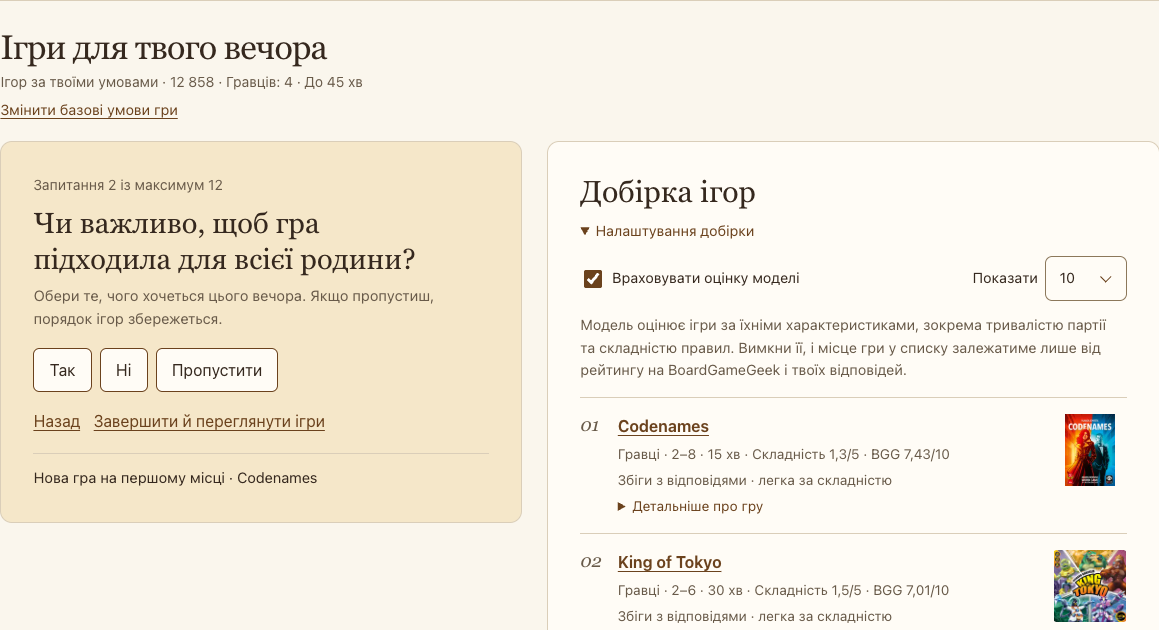
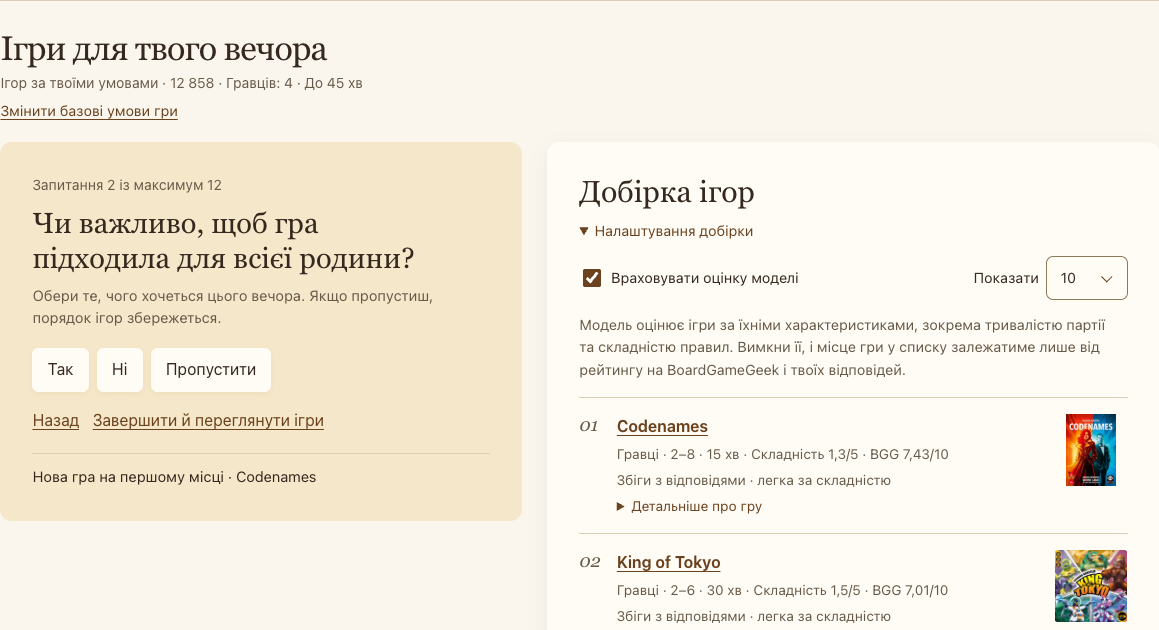
Keep the monogram green and soften portfolio surfaces and hover states

diff --git a/rental.css b/rental.css
@@ -4,7 +4,7 @@
 .hero-image img { display:block; width:100%; height:clamp(210px,20vw,284px); object-fit:cover; object-position:50% 70%; border-radius:4px 36px 4px 4px; }
 .hero-image figcaption { margin-top:.35rem; color:var(--muted); font-size:.78rem; }
 .hero-image figcaption a { color:inherit; }
-.controls { background:#e6ece1; border:1px solid #c8d6c4; border-radius:12px; padding:clamp(1rem,2.3vw,1.8rem); }
+.controls { background:#e6ece1; border-radius:12px; padding:clamp(1rem,2.3vw,1.8rem); }
 #question { display:block; margin:0 0 .65rem; font-size:1.08rem; font-weight:650; }
 .query-row { display:flex; align-items:stretch; gap:.65rem; }
 .query-row textarea { resize:vertical; min-height:48px; min-width:0; flex:1; background:var(--surface); border:1px solid #a9bba8; border-radius:7px; padding:.65rem .85rem; line-height:1.5; font-size:1rem; }
@@ -12,9 +12,14 @@
 .samples, .chips { display:flex; flex-wrap:wrap; align-items:center; gap:.5rem; }
 .samples { margin-top:.8rem; }
 .samples small { margin-inline-end:.25rem; }
-.chip { padding:.28rem .7rem; min-height:33px; border-radius:18px; border:1px solid #adbdac; background:#f5f7f1; font-size:.84rem; }
-.chip:hover, .chip[aria-pressed=true] { background:var(--surface); color:var(--pine); border-color:var(--pine); }
-.chip[aria-pressed=true] { box-shadow:inset 0 0 0 .5px var(--pine); }
+.chip { padding:.28rem .7rem; min-height:33px; border-radius:18px; border:0; background:#f5f7f1; font-size:.84rem; }
+.chip[aria-pressed=true] { background:var(--pine); color:white; }
+@media (forced-colors: active) {
+  .chip[aria-pressed=true] { text-decoration:underline; }
+}
+@media (hover: hover) and (pointer: fine) {
+  .chip:not([aria-pressed=true]):hover { background:var(--surface); }
+}
 .linehead { display:flex; align-items:baseline; justify-content:space-between; gap:.5rem 1rem; flex-wrap:wrap; margin:2rem 0 .4rem; }
 .linehead span, #legend, #unmatched { font-size:.875rem; color:var(--muted); }
 #understood { margin:.15rem 0; font-size:.98rem; overflow-wrap:anywhere; }
@@ -22,10 +27,14 @@
 #unmatched:empty { display:none; }
 #legend { margin:.45rem 0 1rem; }
 .grid { display:grid; grid-template-columns:repeat(3,minmax(0,1fr)); gap:clamp(.75rem,1.7vw,1.5rem); }
-.card { min-width:0; display:flex; flex-direction:column; border:1px solid var(--line); border-radius:9px; overflow:hidden; background:var(--surface); box-shadow:0 5px 13px #293c2710; }
-.shot { display:block; position:relative; border:0; background:#dadbce; padding:0; }
+.card { min-width:0; display:flex; flex-direction:column; border-radius:9px; overflow:hidden; background:var(--surface); box-shadow:var(--surface-shadow); }
+.shot { display:block; position:relative; overflow:hidden; border:0; background:#dadbce; padding:0; }
 .shot:focus-visible { outline-offset:-4px; }
 .shot img { width:100%; aspect-ratio:1.84; object-fit:cover; display:block; }
+@media (hover: hover) and (pointer: fine) and (prefers-reduced-motion: no-preference) {
+  .shot img { transition:transform 420ms var(--hover-ease); }
+  .shot:hover img { transform:scale(1.015); }
+}
 .photo-label { position:absolute; left:12px; bottom:10px; background:#faf9f0f5; color:#253c2c; padding:.18rem .6rem; border-radius:4px; font-size:.78rem; font-weight:600; }
 .cardbody { padding:clamp(.85rem,1.6vw,1.35rem); display:flex; flex-direction:column; flex:1; }
 .cardhead { display:flex; justify-content:space-between; align-items:center; gap:.4rem; }
@@ -40,10 +49,10 @@
 .ico.bad { color:#9a4b33; } .ico.unknown { color:var(--muted); }
 .inspect { align-self:flex-start; background:transparent; border:0; color:var(--pine); padding:.25rem 0; margin-top:auto; font-weight:620; text-decoration:underline; text-underline-offset:.22em; }
 .rental-note { max-width:80ch; margin-top:1.4rem; color:var(--muted); font-size:.875rem; }
-dialog { width:min(820px,calc(100% - 24px)); max-height:90vh; max-height:90dvh; padding:0; border:1px solid var(--line); border-radius:14px; color:var(--ink); background:var(--surface); overscroll-behavior:contain; }
+dialog { width:min(820px,calc(100% - 24px)); max-height:90vh; max-height:90dvh; padding:0; border:0; border-radius:14px; color:var(--ink); background:var(--surface); overscroll-behavior:contain; }
 dialog::backdrop { background:#14251dd1; }
 .dhead { display:flex; align-items:center; justify-content:space-between; padding:1rem 1.25rem; gap:.5rem; }
-.close { border-radius:24px; background:var(--surface); border:1px solid var(--line); padding:.45rem .9rem; }
+.close { border-radius:24px; background:var(--pine-soft); border:0; padding:.45rem .9rem; }
 .gallery { padding:0 1.25rem 1.25rem; }
 .stage { position:relative; background:#e7e7de; border-radius:7px; overflow:hidden; }
 .stage img { display:block; width:100%; height:clamp(190px,47vh,510px); object-fit:contain; }
@@ -77,7 +86,7 @@ dialog::backdrop { background:#14251dd1; }
 #spelling button { max-width:100%; white-space:normal; overflow-wrap:anywhere; }
 .refine { margin:.65rem 0; font-size:.92rem; }
 .refine summary { display:list-item; width:fit-content; cursor:pointer; color:var(--pine); text-decoration:underline; text-underline-offset:.2em; }
-.refine form { margin:.65rem 0 1rem; padding:1rem; border:1px solid var(--line); border-radius:8px; background:var(--surface); }
+.refine form { margin:.65rem 0 1rem; padding:1rem; border-radius:8px; background:var(--surface); box-shadow:var(--surface-shadow); }
 .refine-fields { display:grid; grid-template-columns:repeat(auto-fit,minmax(min(100%,11rem),1fr)); gap:.7rem; }
 .refine-fields label { display:grid; gap:.25rem; }
 .refine-fields input,.refine-fields select { min-width:0; max-width:100%; padding:.45rem; font:inherit; border:1px solid #a9bba8; border-radius:5px; background:var(--surface); color:var(--ink); }

diff --git a/demo.css b/demo.css
@@ -8,6 +8,9 @@
   --pine: #214334;
   --pine-soft: #e4ece0;
   --focus: #ab501e;
+  --glow-rgb: 49 86 65;
+  --surface-shadow: 0 2px 5px rgb(39 40 30 / 4%), 0 8px 24px rgb(39 40 30 / 5%);
+  --hover-ease: cubic-bezier(.22, .68, .26, 1);
   --serif: Georgia, "Times New Roman", serif;
   --sans: Inter, -apple-system, BlinkMacSystemFont, "Segoe UI", Arial, sans-serif;
   --mono: ui-monospace, "SFMono-Regular", Consolas, monospace;
@@ -35,23 +38,42 @@ button { -webkit-appearance: none; }
 .masthead .wrap { min-height: 64px; flex-wrap:wrap; gap: clamp(1rem, 3vw, 2.5rem); }
 .masthead { color: #20372d; }
 .masthead .signature, .masthead nav a { color: inherit; }
-.masthead .monogram { background: #214334; }
 .masthead nav { align-self:stretch; gap:clamp(.85rem,2.5vw,2rem); margin-inline-start:auto; }
 .masthead nav a { display:grid; align-items:center; align-self:stretch; position:relative; }
 .masthead nav a[aria-current="page"]::after { content:""; position:absolute; inset:auto 0 0; height:3px; background:currentColor; }
 .masthead nav a[aria-current="page"] { font-weight:700; }
 .masthead .language { min-width:7.5em; }
 .signature { gap: .6rem; font-weight: 650; color: var(--ink); text-decoration: none; }
-.monogram { display: inline-grid; place-items: center; flex: none; width: 33px; height: 33px; border-radius: 50%; background: var(--pine); color: #fffced; font: italic 1rem var(--serif); }
+.monogram { display: inline-grid; place-items: center; flex: none; width: 33px; height: 33px; border-radius: 50%; background: #214334; color: #fffced; font: italic 1rem var(--serif); }
 .masthead nav a, .language { font-size: .875rem; font-weight: 550; }
 .masthead nav a { text-decoration: none; }
 .masthead nav a:hover, .signature:hover span:last-child { text-decoration: underline; }
-.language { display: inline-flex; align-items: center; justify-content:center; min-height: 40px; padding: 0 .85rem; background: transparent; border: 1px solid var(--line); border-radius: 25px; }
+.language { display: inline-flex; align-items: center; justify-content:center; min-height: 40px; padding: 0 .85rem; background: color-mix(in srgb, currentColor 7%, transparent); border: 0; border-radius: 25px; }
 .skip:not(:focus), .sronly { position:absolute; width:1px; height:1px; padding:0; margin:-1px; overflow:hidden; clip-path:inset(50%); white-space:nowrap; }
 .skip:focus { position:absolute; top:8px; left:8px; z-index:10; background:var(--surface); padding:.5rem; }
-.primary { border: 1px solid var(--pine); border-radius: 7px; background: var(--pine); color: white; font-weight: 650; padding: .7rem 1.1rem; min-height: 46px; }
-.primary::after { content: "→"; margin-inline-start:.65em; }
-.primary:hover { background: #142f23; }
+.primary { border: 0; border-radius: 7px; background: var(--pine); color: white; font-weight: 650; padding: .7rem 1.1rem; min-height: 46px; }
+.primary::after { content: "→"; display:inline-block; margin-inline-start:.65em; }
+@media (hover: hover) and (pointer: fine) {
+  :where(.primary, .language, .chip, .close, .arrow, .mark, .answers button, .go, #clear, #retry) {
+    transition: background-color 220ms ease, color 180ms ease, box-shadow 320ms var(--hover-ease);
+  }
+  :where(.primary, .chip, .close, .arrow, .mark, .answers button, .go, #clear, #retry):enabled:hover {
+    box-shadow: 0 2px 5px rgb(var(--glow-rgb) / 8%), 0 6px 19px rgb(var(--glow-rgb) / 16%);
+  }
+  .language:hover { background: color-mix(in srgb, currentColor 12%, transparent); }
+  .primary:hover { background: #2d523e; }
+}
+@media (hover: hover) and (pointer: fine) and (prefers-reduced-motion: no-preference) {
+  .primary::after { transition: transform 260ms var(--hover-ease); }
+  .primary:hover::after { transform: translateX(2px); }
+}
+@media (forced-colors: active) {
+  button:is(.primary, .language, .chip, .close, .arrow, .mark, .go, #clear, #retry), .answers button {
+    outline: 1px solid ButtonText;
+    outline-offset: -1px;
+  }
+  button:focus-visible { outline: 3px solid Highlight !important; outline-offset: 3px !important; }
+}
 .muted, small { color: var(--muted); }
 small { font-size:.845rem; }
 .footer { border-top:1px solid var(--line); padding-block: 1.35rem 2rem; margin-top: 2.6rem; }

diff --git a/boardgames.css b/boardgames.css
@@ -8,13 +8,12 @@
   --pine:#6b421d;
   --pine-soft:#f5e7c9;
   --focus:#885212;
+  --glow-rgb:164 109 31;
   --honey:#edba50;
   --honey-hover:#e4a735;
   --ochre:#975a0c;
   --control-line:#8c785b;
 }
-.masthead { color:var(--ink); }
-.masthead .monogram { background:var(--pine); }
 .method p { margin-top:.85rem; color:var(--muted); }
 [hidden] { display:none !important; }
 .filters { margin:0 0 1.4rem; padding:1rem 1.2rem 1.25rem; display:grid; grid-template-columns:repeat(4,minmax(0,1fr)); gap:.85rem 1.15rem; min-width:0; border:1px solid var(--line); border-radius:.65rem; }
@@ -29,14 +28,13 @@
 .workspace { display:grid; grid-template-columns:minmax(0,.92fr) minmax(0,1.08fr); grid-template-areas:"quiz list"; align-items:start; gap:clamp(1rem,2vw,1.8rem); }
 .quiz-panel,.results { border-radius:.75rem; padding:clamp(1.15rem,2.7vw,2rem); }
 .quiz-panel { background:var(--pine-soft); position:sticky; top:1rem; }
-.results { background:var(--surface); border:1px solid var(--line); }
+.results { background:var(--surface); box-shadow:var(--surface-shadow); }
 #step,#count { font-size:.875rem; color:var(--muted); }
 #step { margin-bottom:.6rem; }
 #question { font-size:clamp(1.5rem,2.7vw,2.15rem); }
 .answers,.quiz-actions,.result-controls { display:flex; flex-wrap:wrap; align-items:center; gap:.5rem; }
 .answers { margin-top:1.1rem; }
-.answers button,#retry { min-height:44px; padding:.45rem .95rem; border:1px solid var(--pine); border-radius:.4rem; background:var(--surface); }
-.answers button:hover { color:white; background:var(--pine); }
+:where(.answers button,#retry) { min-height:44px; padding:.45rem .95rem; border:0; border-radius:.4rem; background:var(--surface); box-shadow:0 2px 6px rgb(var(--glow-rgb) / 8%); }
 .quiz-actions button { margin-top:.55rem; min-height:40px; padding:.25rem .35rem .25rem 0; background:transparent; border:0; color:var(--pine); text-decoration:underline; text-underline-offset:.2em; }
 .results h2 { font-size:clamp(1.5rem,2.4vw,2rem); }
 #count { margin-top:.25rem; }
@@ -79,14 +77,17 @@
 .advanced summary { width:fit-content; font-size:.9rem; text-underline-offset:.2em; }
 .extra-fields { margin-top:.8rem; display:grid; grid-template-columns:repeat(2,minmax(0,1fr)); gap:1rem; }
 .go,#clear { min-height:44px; border-radius:.4rem; padding:.55rem 1.1rem; font-weight:650; }
-.intro .primary,.go,#clear { color:var(--ink); background:var(--honey); border:1px solid var(--pine); }
-.intro .primary:hover,.go:hover,#clear:hover { background:var(--honey-hover); }
+.intro .primary,.go,#clear { color:var(--ink); background:var(--honey); border:0; }
+@media (hover: hover) and (pointer: fine) {
+  .intro .primary:hover,.go:hover,#clear:hover { background:var(--honey-hover); }
+  .answers button:hover,#retry:hover { background:#f9dca0; }
+}
 #status { margin:1rem 0; }
 .selection-head { border-top:1px solid var(--line); padding-top:1.7rem; margin-bottom:1.2rem; }
 #selection,#list,#method,#results-title { scroll-margin-top:1rem; }
 .results { grid-area:list; }
 .list-title,#refine-title { font:400 clamp(1.55rem,2.4vw,2rem)/1.2 var(--serif); }
-.quiz-panel { grid-area:quiz; border:1px solid var(--line); }
+.quiz-panel { grid-area:quiz; }
 #refine-help,#hint { margin:.55rem 0 .9rem; color:var(--muted); }
 .rank-settings { margin-block:.6rem 1rem; }
 #model-help { max-width:60ch; color:var(--muted); font-size:.9rem; }

diff --git a/report.css b/report.css
@@ -12,10 +12,10 @@
   --accent-hover: #ffd0d9;
   --pine: var(--accent);
   --focus: var(--accent);
+  --glow-rgb: 210 117 144;
 }
 .masthead { color: var(--ink); }
 .masthead nav a[aria-current="page"] { color: var(--accent); }
-.masthead .language { border-color: var(--control-edge); }
 h1 em { color: var(--accent); font-weight: 400; }
 .hero {
   display: grid;
@@ -58,7 +58,7 @@ h1 em { color: var(--accent); font-weight: 400; }
   transform: translateY(-70%) rotate(45deg); pointer-events: none;
 }
 .panels { display: grid; grid-template-columns: minmax(0, 1.2fr) minmax(0, .8fr); gap: 1.25rem; align-items: start; margin: 1.3rem 0 1.7rem; }
-.panel { border: 1px solid var(--line); background: var(--surface); border-radius: 10px; }
+.panel { background: var(--surface); border-radius: 10px; }
 .panel-head { display: flex; align-items: baseline; justify-content: space-between; flex-wrap: wrap; gap: .25rem .75rem; padding: 1rem 1.25rem; border-bottom: 1px solid var(--line); }
 .panel-head h3 { font: 400 clamp(1.35rem, 2vw, 1.65rem)/1.2 var(--serif); }
 .panel-head span { font-size: .85rem; color: var(--muted); }
@@ -76,10 +76,12 @@ h1 em { color: var(--accent); font-weight: 400; }
 .review h4 { margin: 0; font-size: .94rem; }
 .review blockquote { margin: .55rem 0; font: 400 1.28rem/1.35 var(--serif); color: var(--ink); }
 .review p { color: var(--muted); font-size: .94rem; }
-.mark { margin-top: .75rem; border: 1px solid var(--accent); border-radius: 6px; color: var(--paper); background: var(--accent); padding: .5rem .85rem; min-height: 44px; font-size: .9rem; font-weight: 600; }
-.mark:hover { background: var(--accent-hover); }
-.resolved .mark { color: var(--ink); background: transparent; border-color: var(--control-edge); }
-.resolved .mark:hover { background: var(--raised); }
+.mark { margin-top: .75rem; border: 0; border-radius: 6px; color: var(--paper); background: var(--accent); padding: .5rem .85rem; min-height: 44px; font-size: .9rem; font-weight: 600; }
+.resolved .mark { color: var(--ink); background: var(--raised); }
+@media (hover: hover) and (pointer: fine) {
+  .mark:hover { background: var(--accent-hover); }
+  .resolved .mark:hover { background: #424042; }
+}
 details summary { cursor: pointer; font-weight: 600; text-wrap: pretty; }
 .output { border-bottom: 1px solid var(--line); }
 .output summary { display: flex; align-items: center; gap: .6rem; min-height: 44px; padding: .5rem .1rem; }

diff --git a/projects.css b/projects.css
@@ -3,9 +3,16 @@
 .portfolio-intro .intro { margin-top:1rem; max-width:64ch; color:var(--muted); font-size:clamp(1rem,1.4vw,1.15rem); }
 #demo-heading, .casework h2 { margin-bottom:1rem; }
 .project-grid { display:grid; grid-template-columns:repeat(3,minmax(0,1fr)); gap:clamp(1rem,2.4vw,2rem); }
-.project-card { display:flex; flex-direction:column; overflow:hidden; border:1px solid var(--line); border-radius:10px; color:var(--ink); background:var(--surface); text-decoration:none; }
-.project-card:hover { border-color:var(--pine); }
-.project-card:hover .card-action { text-decoration-thickness:2px; }
+.project-card { display:flex; flex-direction:column; overflow:hidden; border-radius:10px; color:var(--ink); background:var(--surface); box-shadow:var(--surface-shadow); text-decoration:none; }
+.project-card:has(.report-art) { --glow-rgb: 121 69 84; }
+.project-card:has(.game-art) { --glow-rgb: 135 93 44; }
+@media (hover: hover) and (pointer: fine) {
+  .project-card { transition: box-shadow 360ms var(--hover-ease), transform 360ms var(--hover-ease); }
+  .project-card:hover { box-shadow: 0 3px 9px rgb(var(--glow-rgb) / 9%), 0 12px 32px rgb(var(--glow-rgb) / 13%); }
+}
+@media (hover: hover) and (pointer: fine) and (prefers-reduced-motion: no-preference) {
+  .project-card:hover { transform: translateY(-2px); }
+}
 .card-art { height:clamp(10rem,17vw,14.5rem); overflow:hidden; }
 .card-art > img { display:block; width:100%; height:100%; object-fit:cover; object-position:50% 55%; }
 .rental-art > img { object-position:50% 72%; }
@@ -65,14 +72,13 @@
   width:100%;
   height:auto;
   margin:0 0 1.25rem;
-  border:1px solid var(--line);
   border-radius:8px;
 }
 .screen-scroll { border-radius:8px; }
 .pan-hint { display:none; }
 @media(max-width:640px) {
-  .screen-scroll { overflow-x:auto; border:1px solid var(--line); }
+  .screen-scroll { overflow-x:auto; }
   .screen-scroll:focus-visible { outline-offset:2px; }
-  .casework .case-screen { width:66rem; max-width:none; margin:0; border:0; border-radius:0; }
+  .casework .case-screen { width:66rem; max-width:none; margin:0; border-radius:0; }
   .pan-hint { display:block; color:var(--muted); margin:.4rem 0 1rem; font-size:.83rem; }
 }

diff --git a/report.html b/report.html
@@ -4,7 +4,7 @@
   <meta name="description" content="How I automated a manager’s weekly moderation report in n8n. Review a fictional Slack alert and see how your decision changes the report." data-uk-description="Як я автоматизувала щотижневий звіт про модерацію в n8n. Перевір вигадане сповіщення зі Slack і подивись, як твоє рішення вплине на звіт.">
   <title data-uk="Щотижневий звіт про модерацію · Дарія Кукла">Weekly moderation report · Dariia Kukla</title>
   <link rel="icon" href="favicon.ico" sizes="16x16 32x32 48x48 64x64" type="image/x-icon">
-  <link rel="stylesheet" href="demo.css?v=footer2"><link rel="stylesheet" href="report.css?v=slack-thread">
+  <link rel="stylesheet" href="demo.css?v=soft-surfaces"><link rel="stylesheet" href="report.css?v=soft-surfaces">
 </head><body>
 <a class="skip" href="#week" data-uk="До вибору періоду">Skip to report controls</a>
 <header class="masthead"><div class="wrap">

diff --git a/boardgames.html b/boardgames.html
@@ -4,7 +4,7 @@
   <title data-uk="Підбір настільної гри · Дарія Кукла">Board Game Finder · Dariia Kukla</title>
   <link rel="icon" href="favicon.ico" sizes="16x16 32x32 48x48 64x64" type="image/x-icon">
   <meta name="description" content="Find a game for your table with Dariia Kukla’s adaptive board-game recommender." data-uk-description="Підбери настільну гру для своєї компанії за допомогою рекомендаційної системи Дарії Кукли.">
-  <link rel="stylesheet" href="demo.css?v=footer2"><link rel="stylesheet" href="boardgames.css?v=honey">
+  <link rel="stylesheet" href="demo.css?v=soft-surfaces"><link rel="stylesheet" href="boardgames.css?v=soft-surfaces">
 </head><body>
 <a class="skip" href="#main-content" data-uk="До підбору гри">Skip to the finder</a>
 <header class="masthead"><div class="wrap">

diff --git a/rental.html b/rental.html
@@ -6,8 +6,8 @@
   <meta data-uk-description="Порівняй оренду та фото дев’яти квартир у Києві за своїми побажаннями. Інтерактивний проєкт Дарії Кукли." name="description" content="Compare the rents and photos of nine fictional Kyiv flats against your wish list. An interactive portfolio project by Dariia Kukla.">
   <title data-uk="Пошук житла · Дарія Кукла">AI Rental Assistant · Dariia Kukla</title>
   <link rel="icon" href="favicon.ico" sizes="16x16 32x32 48x48 64x64" type="image/x-icon">
-  <link rel="stylesheet" href="demo.css?v=footer2">
-  <link rel="stylesheet" href="rental.css?v=living-room">
+  <link rel="stylesheet" href="demo.css?v=soft-surfaces">
+  <link rel="stylesheet" href="rental.css?v=soft-surfaces">
 </head>
 <body>
 <a class="skip" href="#query" id="skip"></a>

diff --git a/index.html b/index.html
@@ -4,7 +4,7 @@
   <title data-uk="Проєкти · Дарія Кукла">Projects · Dariia Kukla</title>
   <link rel="icon" href="favicon.ico" sizes="16x16 32x32 48x48 64x64" type="image/x-icon">
   <meta name="description" content="Explore Dariia Kukla’s AI automation projects, interactive demos and work at OBRIO." data-uk-description="Проєкти Дарії Кукли з AI-автоматизації, інтерактивні демо й робочі кейси з OBRIO.">
-  <link rel="stylesheet" href="demo.css?v=footer2"><link rel="stylesheet" href="projects.css?v=meeple-pyramid">
+  <link rel="stylesheet" href="demo.css?v=soft-surfaces"><link rel="stylesheet" href="projects.css?v=soft-surfaces">
 </head><body>
 <a class="skip" href="#projects" data-uk="До проєктів">Skip to projects</a>
 <header class="masthead"><div class="wrap">
